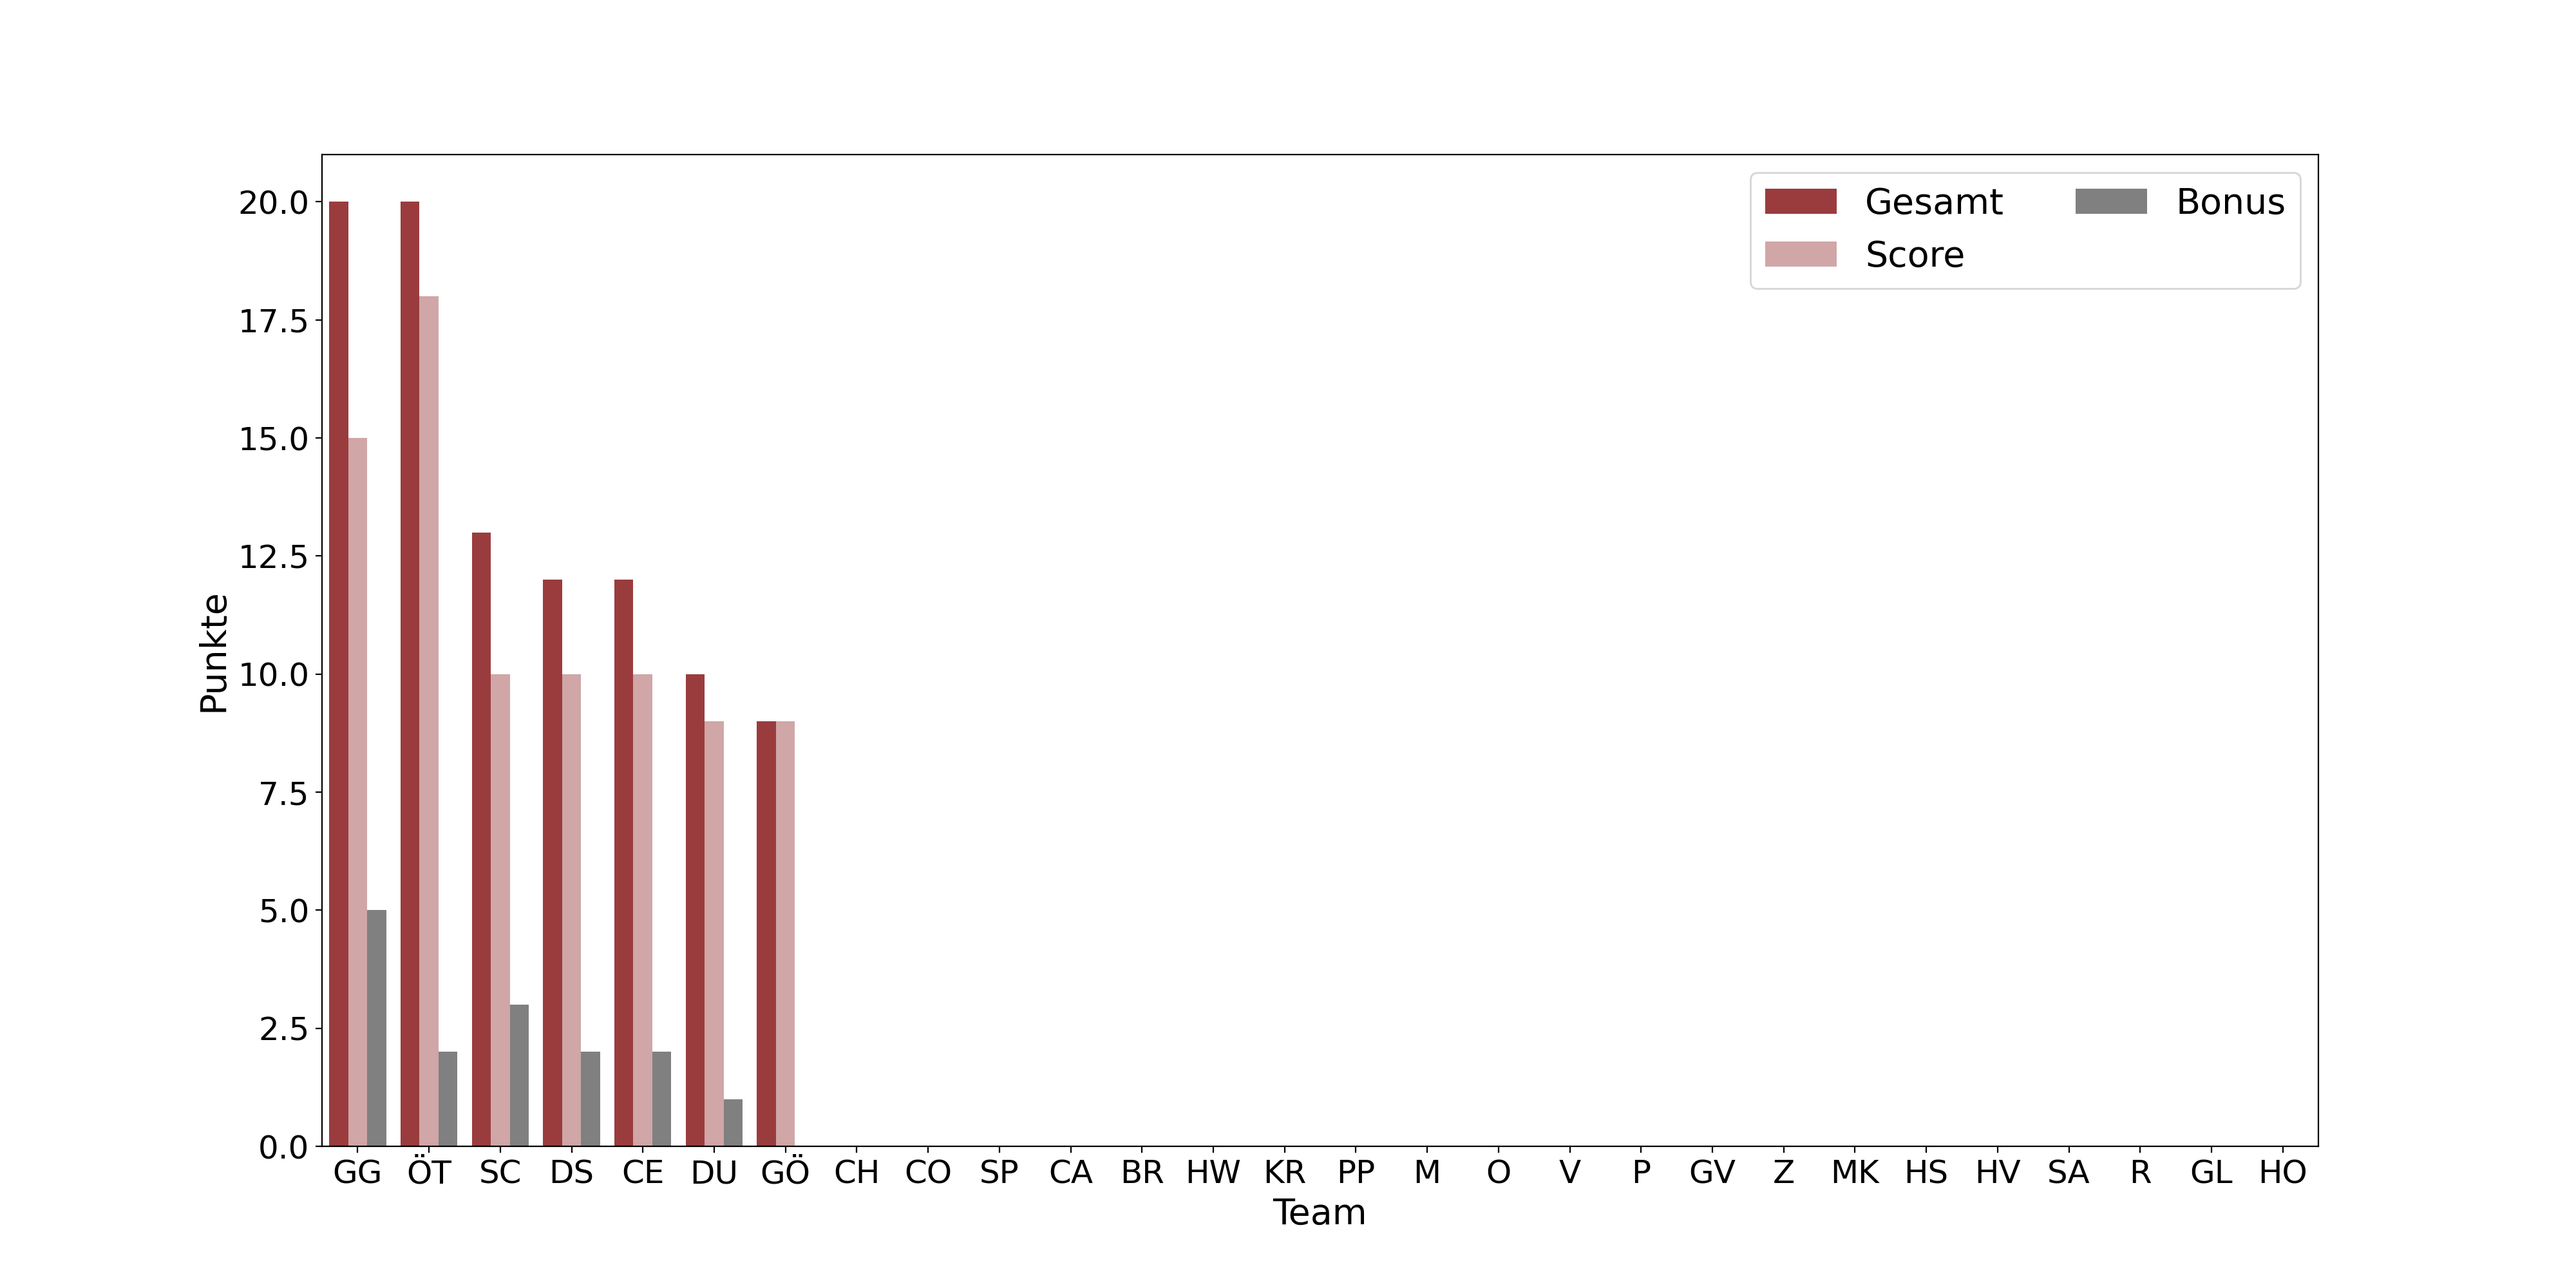
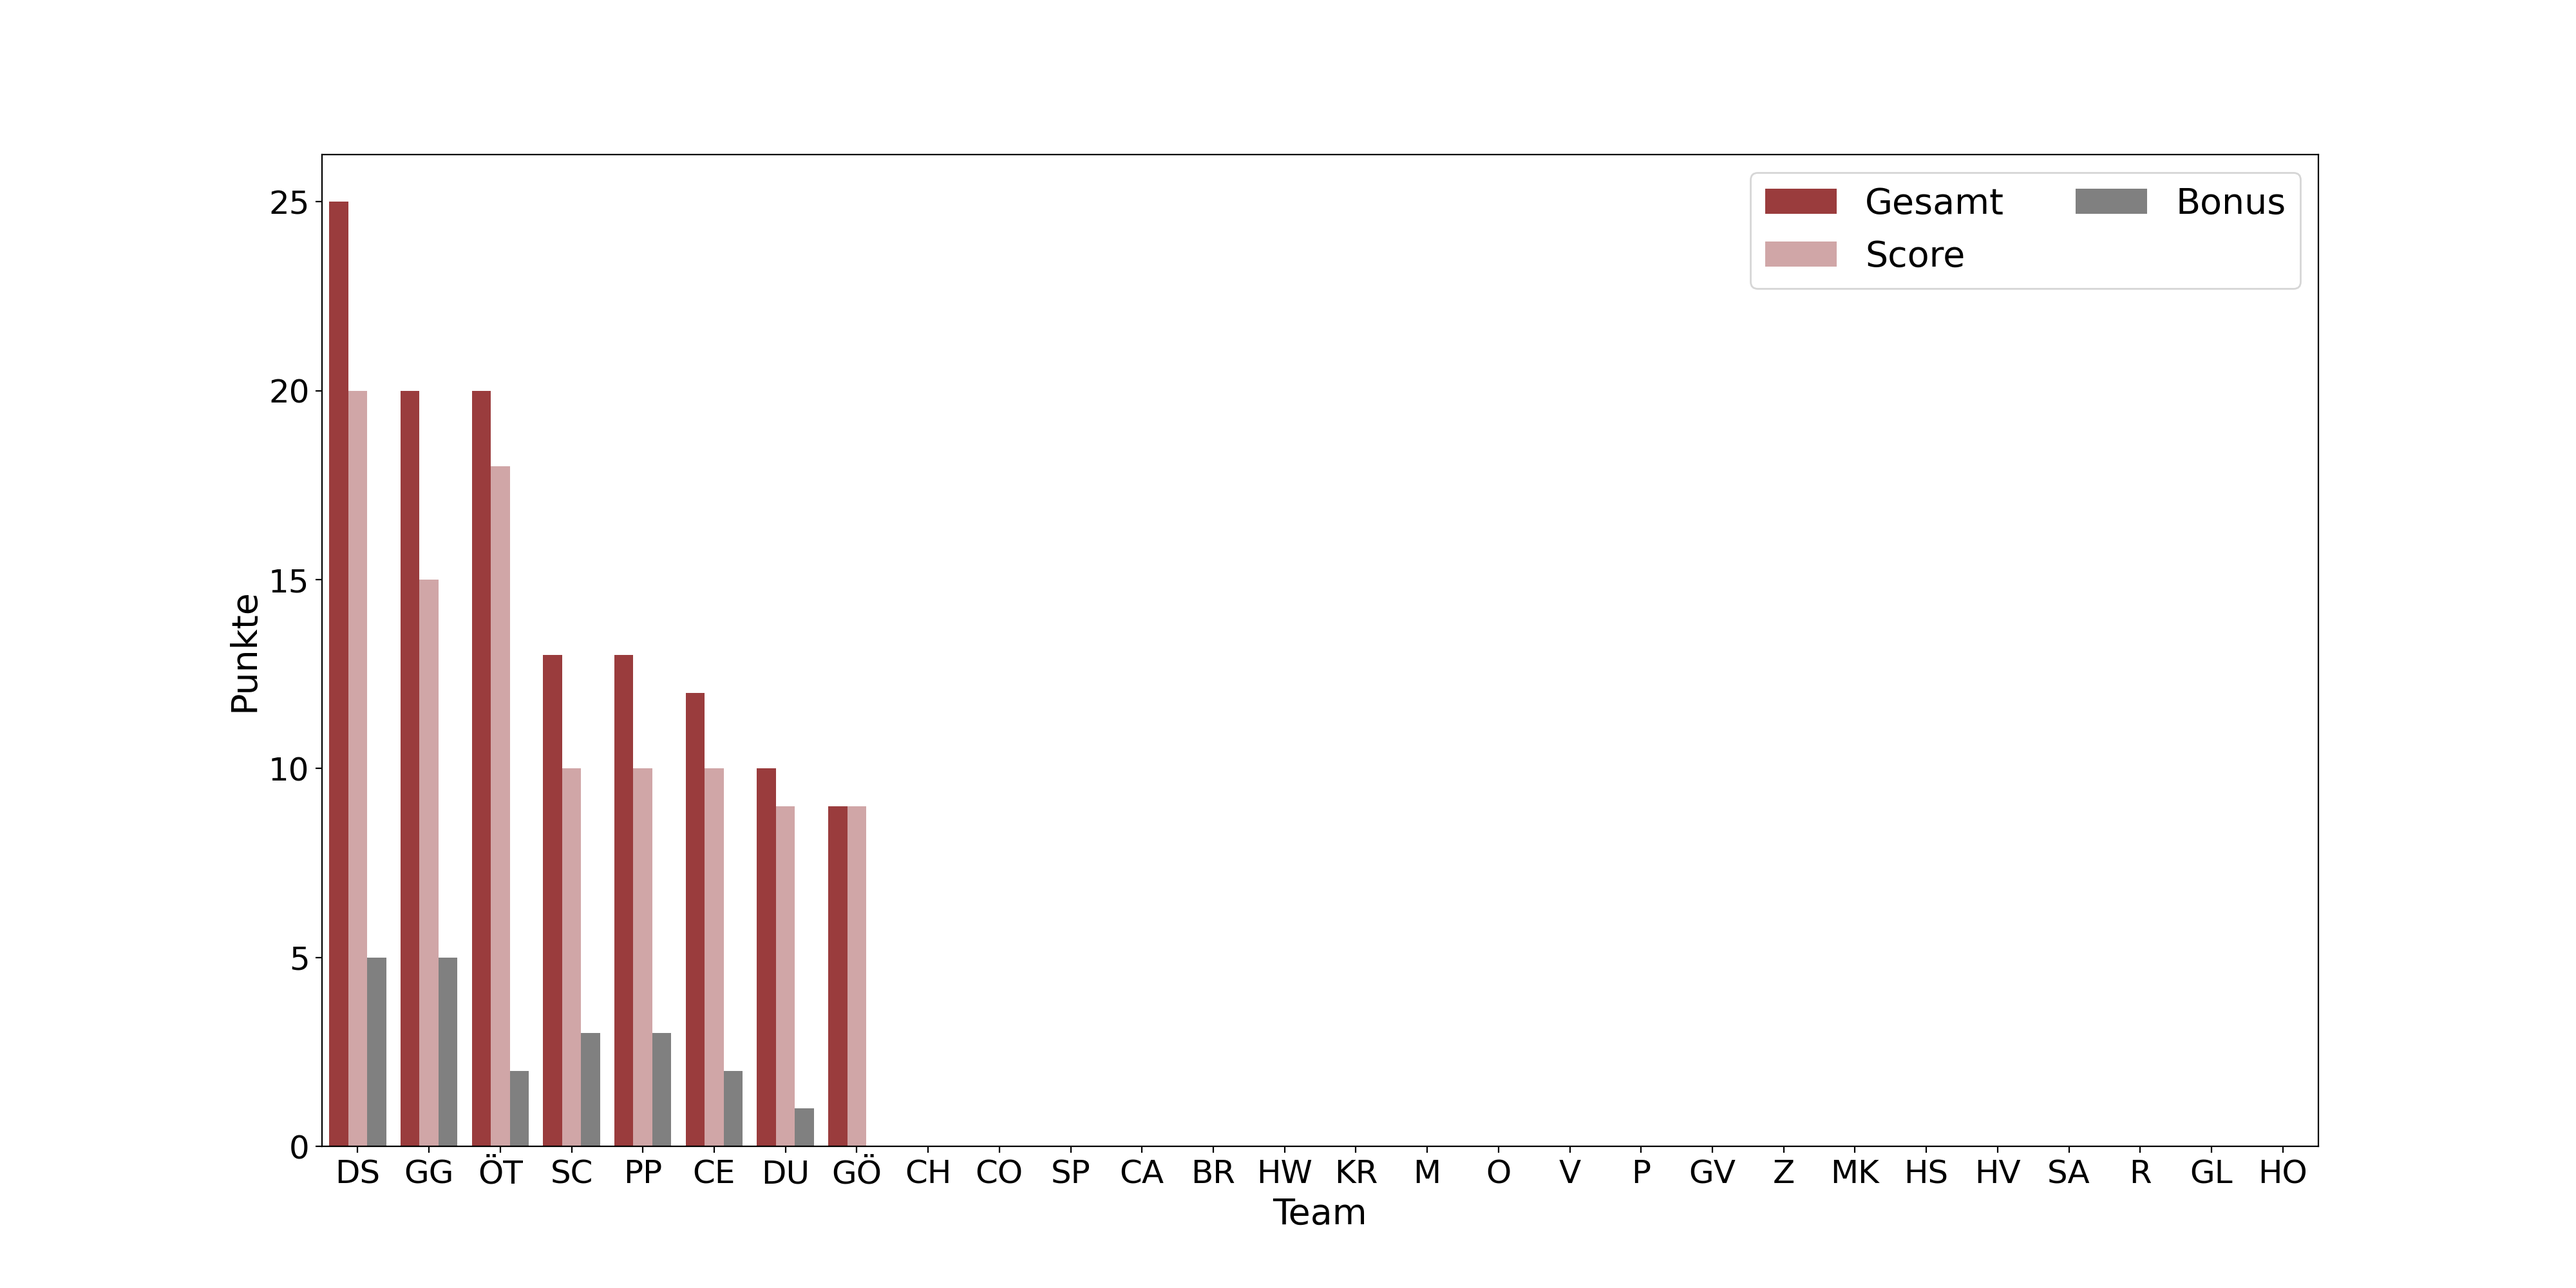
update

diff --git a/css/style_teams.css b/css/style_teams.css
@@ -80,22 +80,22 @@
 
 
         .DS .team__score::after {
-            content: "10/120"
+            content: "20/120"
         }
         .DS .team__stations::after {
-            content: "2/12"
+            content: "3/12"
         }
         .DS .team__bonus::after {
-            content: "2/36"
+            content: "5/36"
         }
         .DS .team__logo {
             background-color: #dab894
         }
         .DS {
-            order: 3
+            order: 0
         }
         .DS .team__all-points::after{
-            content: "12"
+            content: "25"
         }
         
 
@@ -112,7 +112,7 @@
             background-color: #d6eadf
         }
         .DU {
-            order: 5
+            order: 6
         }
         .DU .team__all-points::after{
             content: "10"
@@ -133,7 +133,7 @@
             background-color: #957DAD
         }
         .OT {
-            order: 1
+            order: 2
         }
         .OT .team__all-points::after{
             content: " 20"
@@ -154,7 +154,7 @@
             background-color: #E0BBE4
         }
         .GG {
-            order: 0
+            order: 1
         }
         .GG .team__all-points::after{
              content: "20"
@@ -174,7 +174,7 @@
             background-color: #d291bc
         }
         .CH {
-            order: 7
+            order: 8
         }
         .CH .team__all-points::after{
             content: "0"
@@ -194,7 +194,7 @@
             background-color: #c2d5a8
         }
         .GO {
-            order: 6
+            order: 7
         }
         .GO .team__all-points::after{
             content: "9"
@@ -234,7 +234,7 @@
             background-color: #9d8189
         }
         .SC {
-            order: 2
+            order: 3
         }
         .SC .team__all-points::after{
             content: "13"
@@ -376,7 +376,7 @@
             background-color: #ff928b
         }
         .CE {
-            order: 4
+            order: 5
         }
         .CE .team__all-points::after{
             content: "12"
@@ -384,22 +384,22 @@
 
 
         .PP .team__score::after {
-            content: "0/120"
+            content: "10/120"
         }
         .PP .team__stations::after {
-            content: "1/12"
+            content: "2/12"
         }
         .PP .team__bonus::after {
-            content: "0/36"
+            content: "3/36"
         }
         .PP .team__logo {
             background-color: #7ec4cf
         }
         .PP {
-            order: 14
+            order: 4
         }
         .PP .team__all-points::after{
-            content: "0"
+            content: "13"
         }
 
         
@@ -416,7 +416,7 @@
             background-color: #758184
         }
         .HW {
-            order: 12
+            order: 13
         }
         .HW .team__all-points::after{
             content: "0"
@@ -436,7 +436,7 @@
             background-color: #ff8fab
         }
         .KR {
-            order: 13
+            order: 14
         }
         .KR .team__all-points::after{
             content: "0"
@@ -456,7 +456,7 @@
             background-color: #ff6663
         }
         .CO {
-            order: 8
+            order: 9
         }
         .CO .team__all-points::after{
             content: "0"
@@ -496,7 +496,7 @@
             background-color: #e8d1c5
         }
         .BR {
-            order: 11
+            order: 12
         }
         .BR .team__all-points::after{
             content: "0"
@@ -516,7 +516,7 @@
             background-color: #ffc8dd
         }
         .CA {
-            order: 10
+            order: 11
         }
         .CA .team__all-points::after{
             content: "0"
@@ -535,7 +535,7 @@
             background-color: #f6bc66
         }
         .SP {
-            order: 9
+            order: 10
         }
         .SP .team__all-points::after{
             content: "0"

diff --git a/css/style_station.css b/css/style_station.css
@@ -4,7 +4,7 @@
         }
         
         .B .station__teams::after {
-            content: "3/28"
+            content: "4/28"
         }
 
         .C .station__teams::after {
@@ -16,7 +16,7 @@
         }
 
         .E .station__teams::after {
-            content: "5/28"
+            content: "6/28"
         }
 
         .F .station__teams::after {
